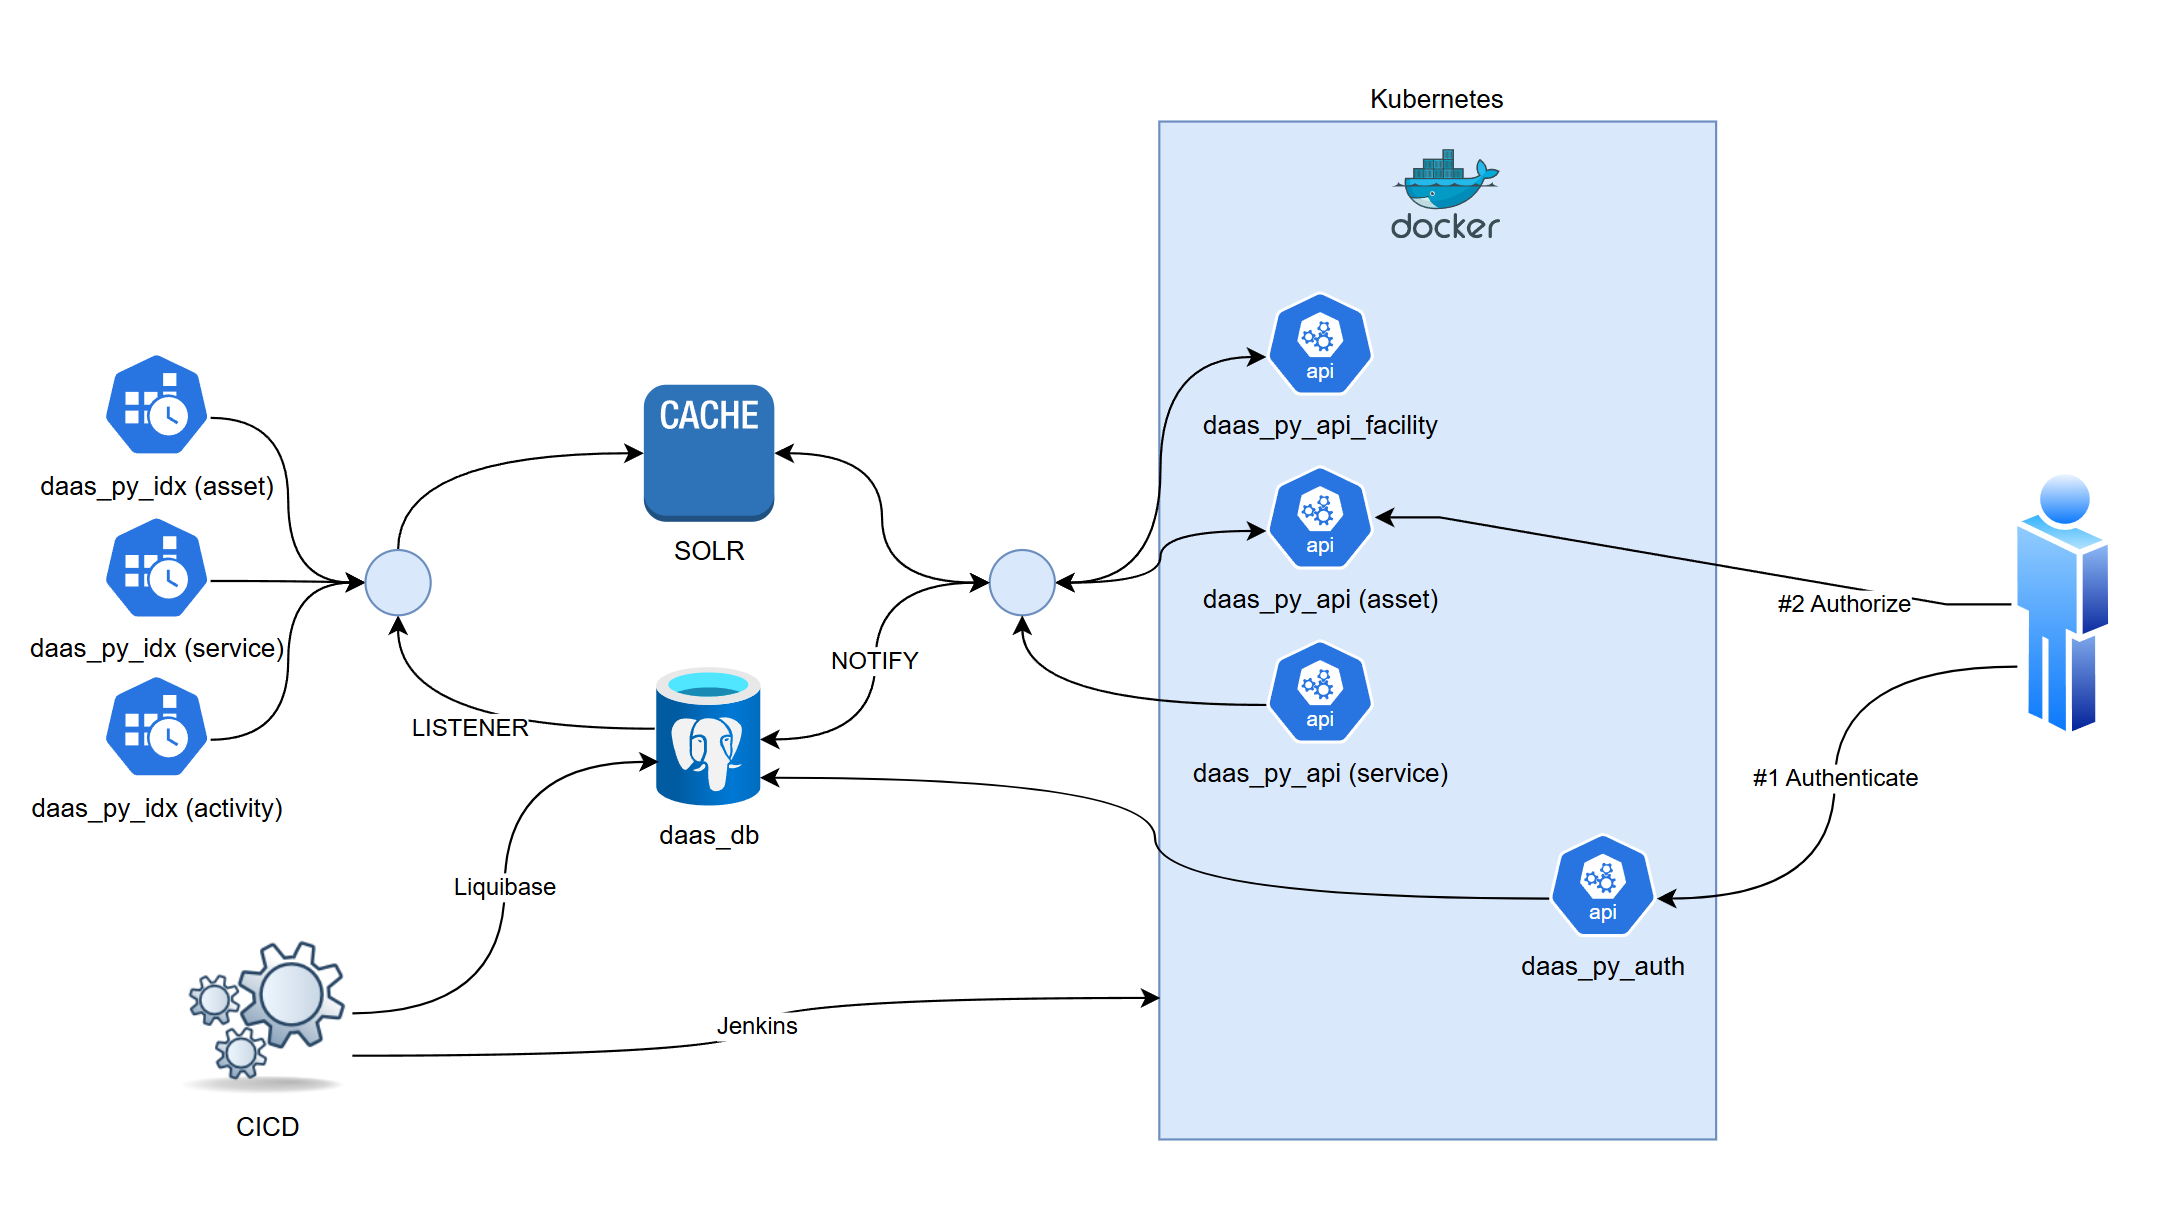
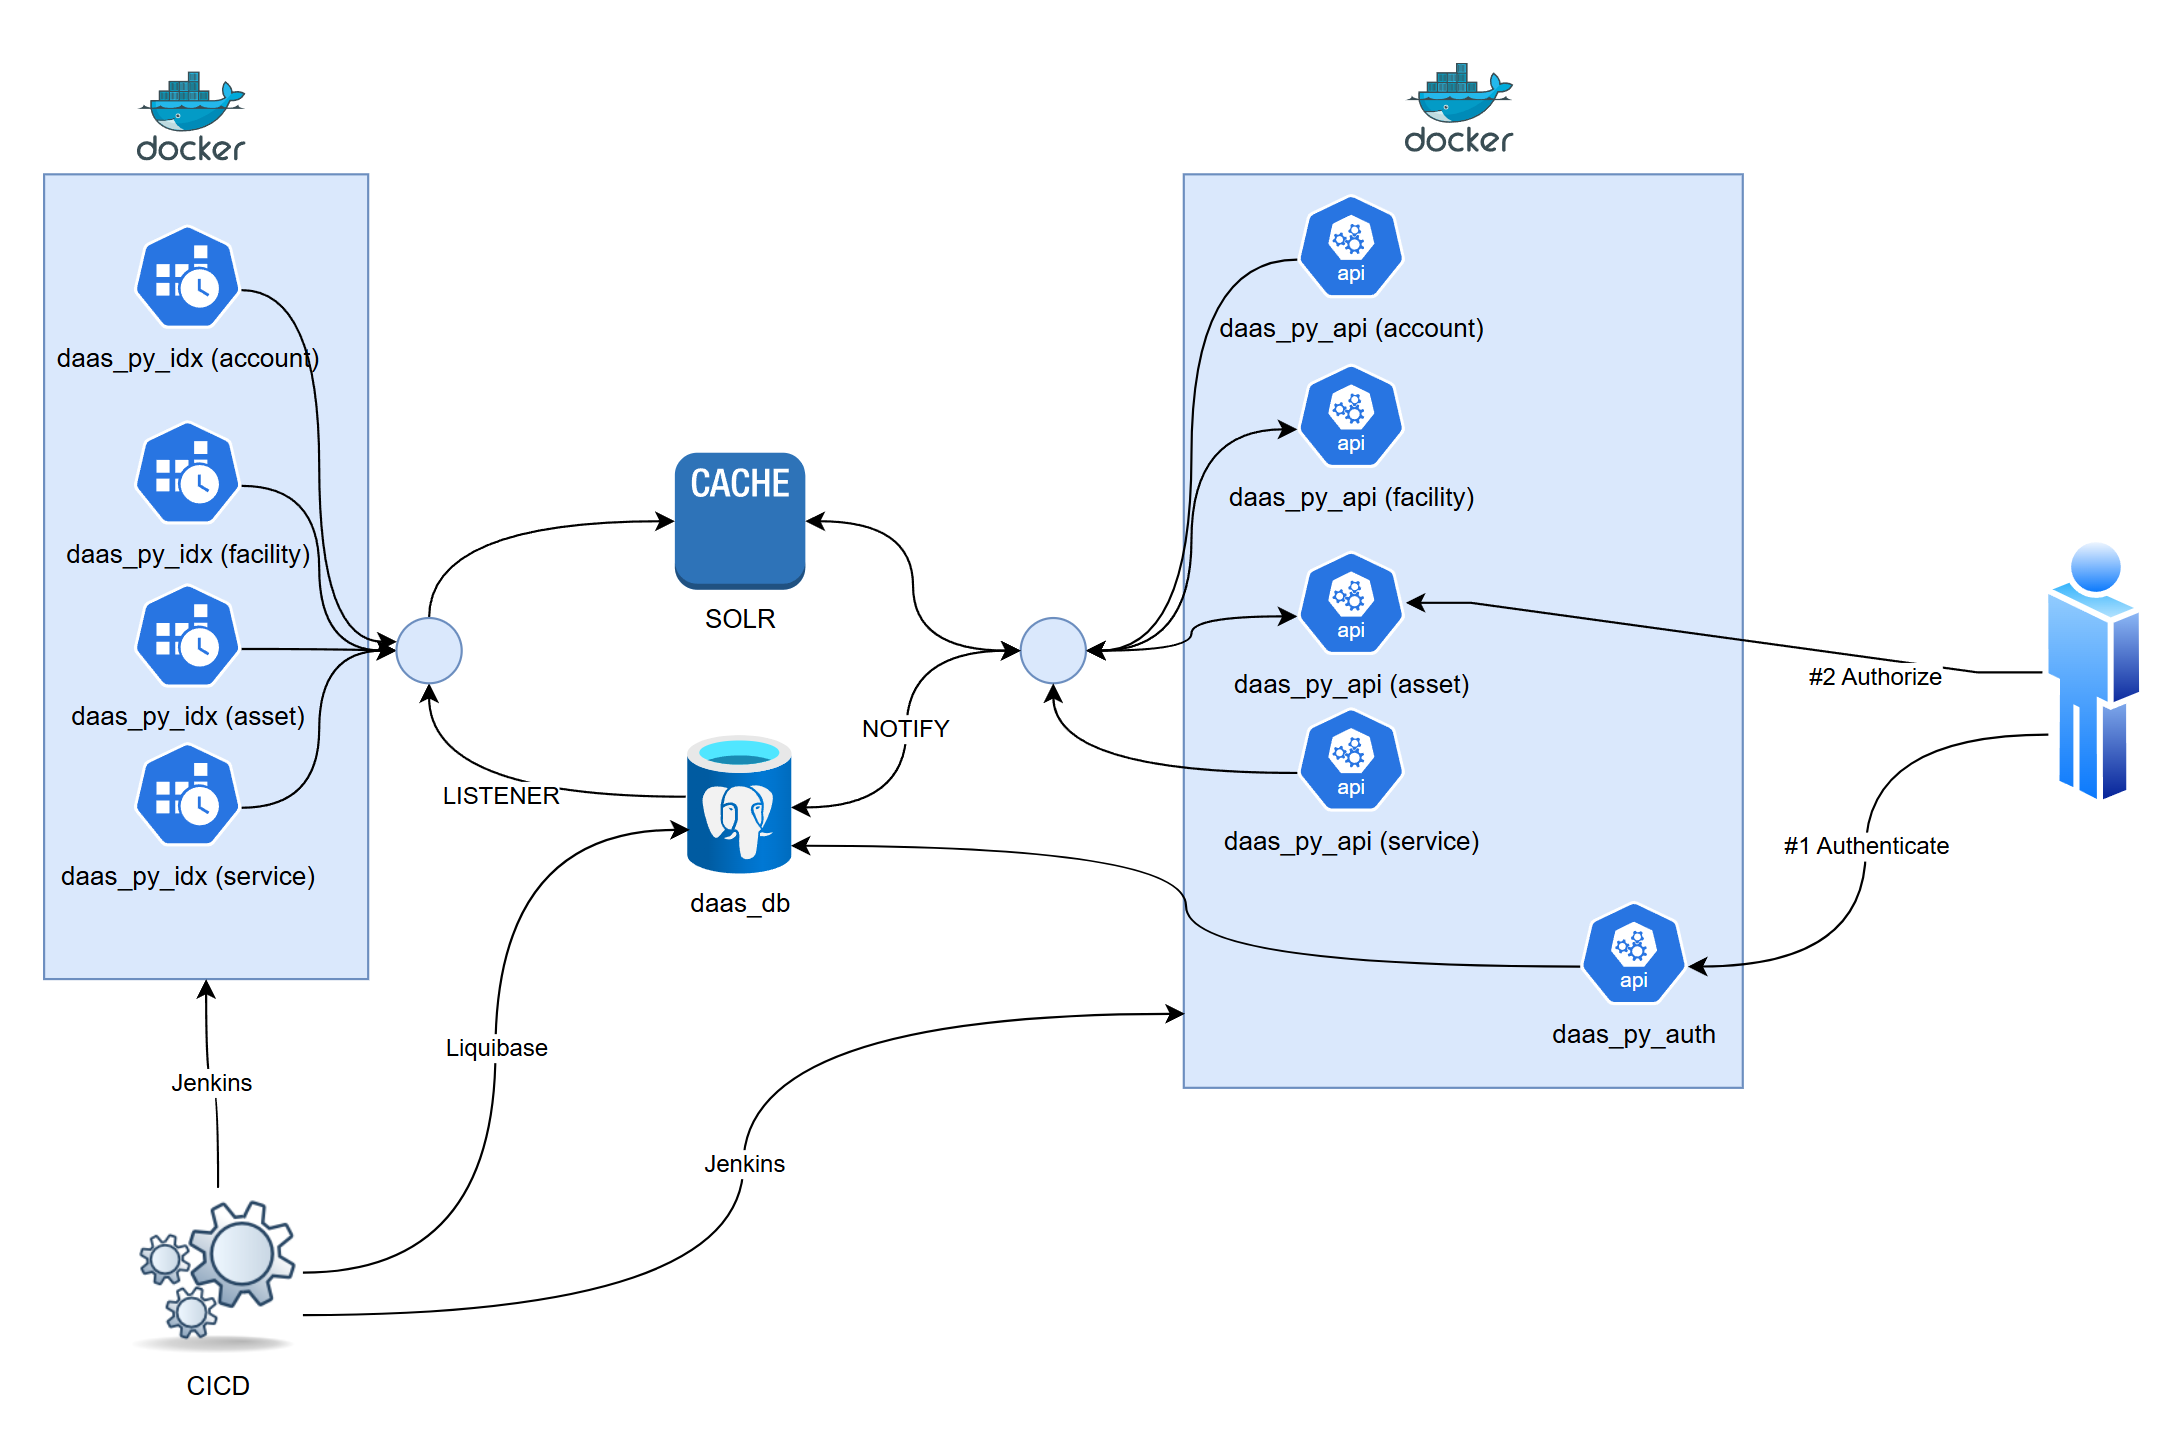
removed facility and replaced with common

diff --git a/README.md b/README.md
@@ -54,11 +54,7 @@ Secrets: dynaconf/cryptography
     │   ├───api         
     │   │   ├───domain         
     │   │   ├───api      
-    ├───daas_py_idx              (GENERIC INDEXER)
-    ├───daas_py_api_facility     (FACILITY API)
-    │   ├───facility_api         
-    │   │   ├───facility         
-    │   │   ├───facility_api      
+    ├───daas_py_idx              (GENERIC INDEXER)   
     ├───daas_py_common           (COMMON)
     │   ├───util                 
     ├───daas_py_config           (CONFIG)
@@ -69,8 +65,6 @@ Secrets: dynaconf/cryptography
 ### [daas_py_auth](https://github.com/nealrout/daas_py_auth) - Django Authorize/Authenticate API
 
 ### [daas_py_api](https://github.com/nealrout/daas_py_api) - Django Generic API (Main)
-
-### [daas_py_api_facility](https://github.com/nealrout/daas_py_api_facility) - Django Facility API (Main)
 
 ### [daas_py_idx](https://github.com/nealrout/daas_py_idx) - Generic Index manager - (Main).
 
